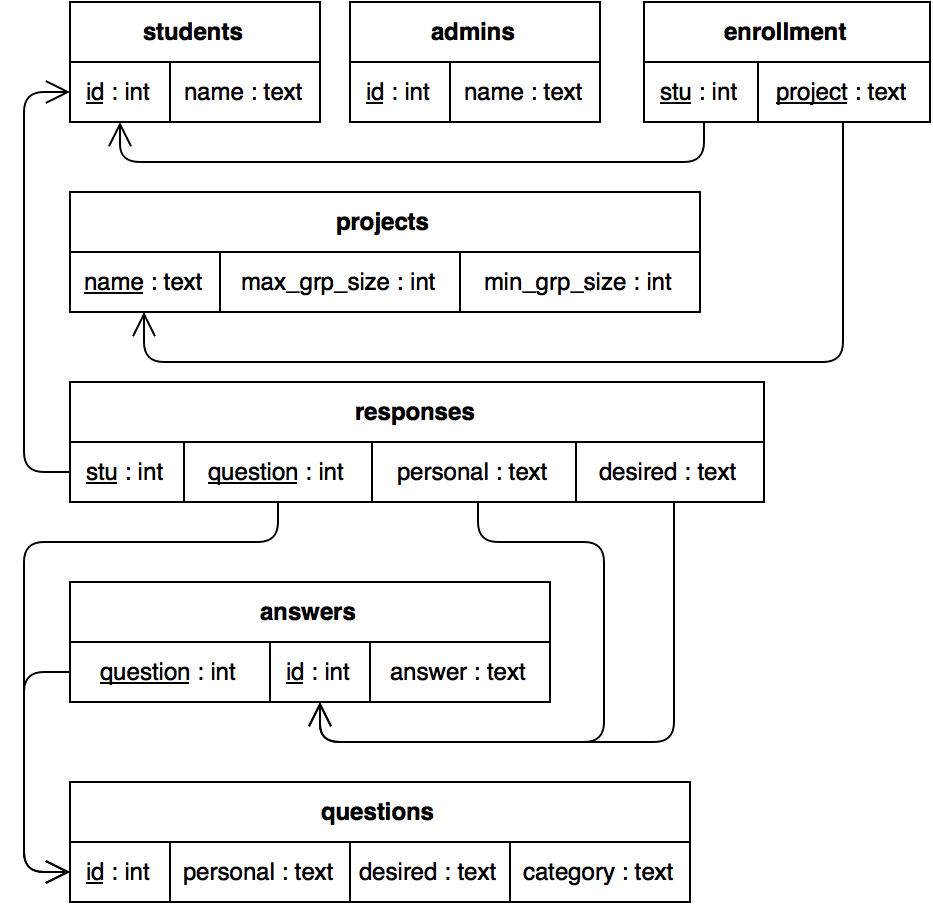
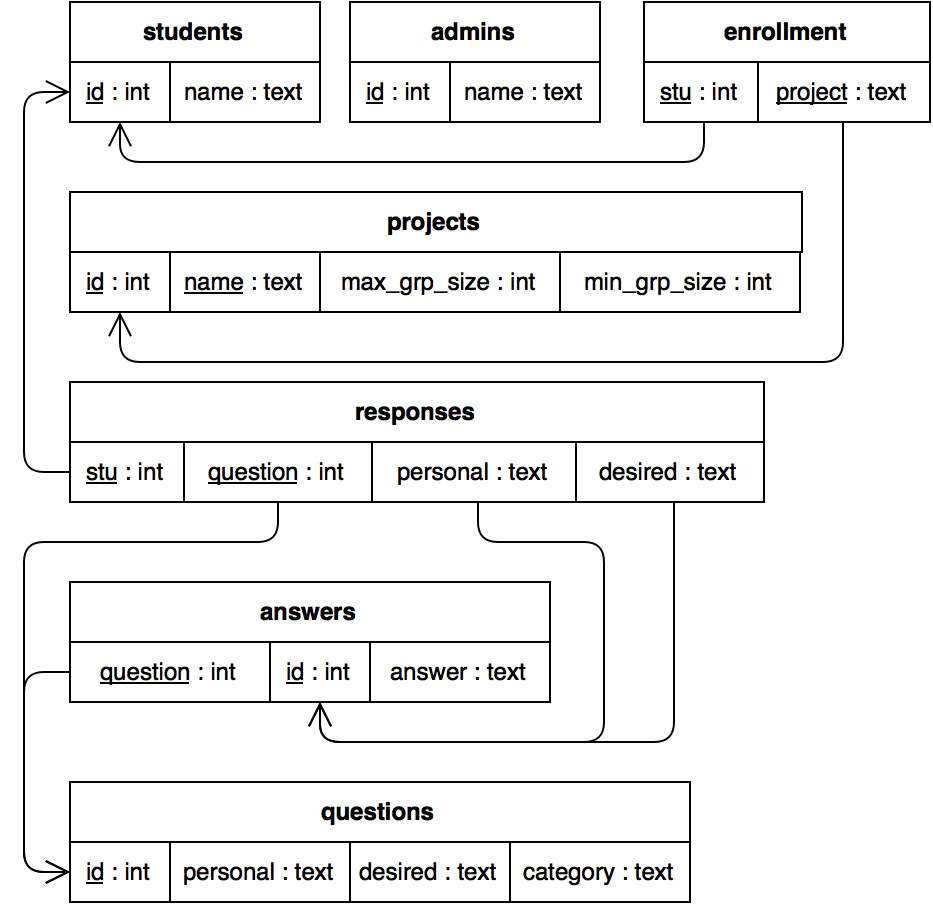
updated db diagram, added db reasoning

Changed region(s): [[0.0932, 0.2166, 0.8392, 0.4022]]

diff --git a/docs/system-design-document.tex b/docs/system-design-document.tex
@@ -94,13 +94,6 @@
 \newcommand{\dtref}[1]{\textbf{DT-\ref{dt:#1}}}
 %% END TABLE COMMANDS
 
-%% STORAGE OBJECT COMMANDS
-\newcounter{storeobjnum}
-\renewcommand{\thedbtablenum}{\twodigits{storeobjnum}}
-\newcommand{\dtlabel}[1]{\refstepcounter{storeobjnum}\label{so:#1}}
-\newcommand{\dtref}[1]{\textbf{SO-\ref{so:#1}}}
-%% END STORAGE OBJECT COMMANDS
-
 % TABLE STYLING
 \everyrow{\hline}
 \tabulinesep=0.5em
@@ -237,15 +230,17 @@ To store the data for our system, a relational database is being used. Our relat
 	\caption{Tables in Database} \tablelabel{db-table}
 	\begin{tabu} to \textwidth {l >{\it}l X}
 		\tableheader{}ID & Name & Description \\
-		\dtlabel{students}\dtref{students}     & students   & Stores the Student entity object. \\
-		\dtlabel{admins}\dtref{admins}         & admins     & Stores the Admin entity object. \\
-		\dtlabel{projects}\dtref{projects}     & projects   & Stores the Project entity object. \\
-		\dtlabel{enrollment}\dtref{enrollment} & enrollment & Stores the association between the Student and Project entity objects,
-		                                                      which is refers to a student's enrollment into a project. \\
-		\dtlabel{questions}\dtref{questions}   & questions  & Stores the Question entity object. \\
-		\dtlabel{answers}\dtref{answers}       & answers    & Stores the Answer entity object. \\
-		\dtlabel{responses}\dtref{responses}   & responses  & Stores the association between the Student and Question entity objects. 
-		                                                      which refers to what answer a student has selected for a question. \\
+		\dtlabel{students}\dtref{students}     & students   & Stores the \textit{Student} (\cdref{student}) entity object. \\
+		\dtlabel{admins}\dtref{admins}         & admins     & Stores the \textit{Admin} (\cdref{admin}) entity object. \\
+		\dtlabel{projects}\dtref{projects}     & projects   & Stores the \textit{Project} (\cdref{project}) entity object. \\
+		\dtlabel{enrollment}\dtref{enrollment} & enrollment & Stores the association between the \textit{Student} (\cdref{student}) 
+		                                                      and \textit{Project} (\cdref{project}) entity objects, which is refers 
+		                                                      to a student's enrollment into a project. \\
+		\dtlabel{questions}\dtref{questions}   & questions  & Stores the \textit{Question} (\cdref{question}) entity object. \\
+		\dtlabel{answers}\dtref{answers}       & answers    & Stores the \textit{Answer} (\cdref{answer}) entity object. \\
+		\dtlabel{responses}\dtref{responses}   & responses  & Stores the association between the \textit{Student} (\cdref{student}) 
+		                                                      and \textit{Question} (\cdref{question}) entity objects, which refers to      
+		                                                      what answer a student has selected for a question. \\
 	\end{tabu}
 \end{table}
 
@@ -253,8 +248,8 @@ To store the data for our system, a relational database is being used. Our relat
 	\caption{Students Table (\dtref{students})} \tablelabel{students-table}
 	\begin{tabu} to \textwidth {l l l X}
 		\tableheader{}Column & Type & Constraint & Description \\
-		id   & Integer & Primary Key & The unique ID given to the student. \\
-		name & Text    &             & The name of the student. \\
+		id   & Integer & Primary Key & The unique ID given to the Student. \\
+		name & Text    &             & The name of the Student. \\
 	\end{tabu}
 \end{table}
 
@@ -262,8 +257,8 @@ To store the data for our system, a relational database is being used. Our relat
 	\caption{Admins Table (\dtref{admins})} \tablelabel{admins-table}
 	\begin{tabu} to \textwidth {l l l X}
 		\tableheader{}Column & Type & Constraint & Description \\
-		id   & Integer & Primary Key & The unique ID given to the administrator. \\
-		name & Text    &             & The name of the administrator. \\
+		id   & Integer & Primary Key & The unique ID given to the Admin. \\
+		name & Text    &             & The name of the Admin. \\
 	\end{tabu}
 \end{table}
 
@@ -271,11 +266,11 @@ To store the data for our system, a relational database is being used. Our relat
 	\caption{Projects Table (\dtref{projects})} \tablelabel{projects-table}
 	\begin{tabu} to \textwidth {l l X X[3]}
 		\tableheader{}Column & Type & Constraint & Description \\
-		id             & Integer & Primary Key      & The unique ID given to a project. \\
+		id             & Integer & Primary Key      & The unique ID given to a Project. \\
 		name           & Text    & Unique,\newline 
-		                           Case Insensitive & The unique name given to a project. \\
-		max\_grp\_size & Integer &                  & The maximum group size of a project. \\
-		min\_grp\_size & Integer &                  & The minimum group size of a project. \\
+		                           Case Insensitive & The unique name given to a Project. \\
+		max\_grp\_size & Integer &                  & The maximum group size of a Project. \\
+		min\_grp\_size & Integer &                  & The minimum group size of a Project. \\
 	\end{tabu}
 \end{table}
 
@@ -294,10 +289,10 @@ To store the data for our system, a relational database is being used. Our relat
 	\caption{Questions Table (\dtref{questions})} \tablelabel{questions-table}
 	\begin{tabu} to \textwidth {l l l X}
 		\tableheader{}Column & Type & Constraint & Description \\
-		id       & Integer & Primary Key & The unique identifier given to a question. \\
-		personal & Text    &             & Asks the student to describe their self. \\
-		desired  & Text    &             & Asks the student to described their desired partner. \\
-		category & Text    &             & The qualification category the question belongs. \\
+		id       & Integer & Primary Key & The unique identifier given to a Question. \\
+		personal & Text    &             & Asks the Student to describe their self. \\
+		desired  & Text    &             & Asks the Student to described their desired partner. \\
+		category & Text    &             & The qualification category the Question belongs. \\
 	\end{tabu}
 \end{table}
 
@@ -306,10 +301,10 @@ To store the data for our system, a relational database is being used. Our relat
 	\begin{tabu} to \textwidth {l l X X[4]}
 		\tableheader{}Column & Type & Constraint & Description \\
 		question & Integer & Primary Key,\newline
-		                     Foreign Key          & The question the answer belongs to. References \textit{id} of the 
+		                     Foreign Key          & The Question the answer belongs to. References \textit{id} of the 
 		                                            \textit{questions} table. \\
-		id       & Integer & Primary Key          & The unique id given to the answer. \\
-		answer   & Text    &                      & The answer of a question. \\
+		id       & Integer & Primary Key          & The unique ID given to the Answer. \\
+		answer   & Text    &                      & The answer of a Question. \\
 	\end{tabu}
 \end{table}
 
@@ -318,28 +313,30 @@ To store the data for our system, a relational database is being used. Our relat
 	\begin{tabu} to \textwidth {l l X X[4]}
 		\tableheader{}Column & Type & Constraint & Description \\
 		stu      & Integer & Primary Key,\newline
-		                     Foreign Key          & Identifies the associated with the response. References \textit{id} of the 
+		                     Foreign Key          & Identifies the associated Student with the response. References \textit{id} of the 
 		                                            \textit{students} table. \\
 		question & Integer & Primary Key,\newline
-		                     Foreign Key          & Identifies which question the response belongs to. References \textit{question}
+		                     Foreign Key          & Identifies which Question the response belongs to. References \textit{question}
 		                                            of the \textit{answers} table. \\
-		personal & Integer & Foreign Key          & Identifies a student's selection for their personal attribute for the given
+		personal & Integer & Foreign Key          & Identifies a Student's selection for their personal attribute for the given
 		                                            given question. References \textit{id} of the \textit{answers} table. \\
-		desired  & Integer & Foreign Key          & Identifies a student's selection for their desired attribute for the given
+		desired  & Integer & Foreign Key          & Identifies a Student's selection for their desired attribute for the given
 		                                            given question. References \textit{id} of the \textit{answers} table. \\
 	\end{tabu}
 \end{table}
 
 \subsubsection{Reasoning}
 \subsubsection*{Students Table (\dtref{students})}
-%NEED ENTITY REFERENCE
-The Student entity object has an ID, which is a unique identifier for that Student. To make sure there can only be one Student to one ID, in the \textit{students} table, (\dtref{students}), the primary key is set to the \textit{id} column. This ensures that there will duplication of an ID value. As well, by making the \textit{id} column the primary key, it shortens look up time for entries when searching by the Student's ID. The \textit{name} column does not have a constraint because the name is irrelevant to identifying a Student when a unique ID value is available. As well, it allows for Student objects with the same name to be stored in the database.
+To ensure that ID of a \textit{Student} (\cdref{student}) is unique, the \textit{id} column is set as the primary key. This guarantees that no two IDs can be equal. As well, by having the \textit{id} column as the primary key, the speed of looking up a \textit{Student} by their ID is increased.
+
+There isn't a constraint put on the \textit{name} column to allow for \textit{Students} with the same name to be entered into the database.
 
 \subsubsection*{Administrator Table (\dtref{admins})}
-%NEED ENTITY REFERENCE
-The Admin entity object has an ID, which is a unique identifier for that Admin. To make sure there can only be one Admin to one ID, in the \textit{admins} table, (\dtref{admins}), the primary key is set to the \textit{id} column. This ensures that there will duplication of an ID value. As well, by making the \textit{id} column the primary key, it shortens look up time for entries when searching by the Admin's ID. The \textit{name} column does not have a constraint because the name is irrelevant to identifying a Admin when a unique ID value is available. As well, it allows for Student objects with the same name to be stored in the database.
+To ensure that ID of a \textit{Admin} (\cdref{admin}) is unique, the \textit{id} column is set as the primary key. This guarantees that no two IDs can be equal. As well, by having the \textit{id} column as the primary key, the speed of looking up a \textit{Admin} by their ID is increased.
 
-\subsubsection*{projects}
+There isn't a constraint put on the \textit{name} column to allow for \textit{Admins} with the same name to be entered into the database.
+
+\subsubsection*{Projects Table (\dtref{projects})}
 Oftentimes, admins will have to create multiple projects. To assure that no duplicate projects exist, we have enforced a unique project name as the Primary Key. This assures that the admin won't confuse themselves by having several identically named projects, thus maximizing readabilit and useability. Projects also have columns storing the max and min group sizes, which are importantly distinct from one another as to allow maximum flexibility with regards to number of students enrolled in a project (for when the PPID is run).
 
 \subsubsection*{enrollment}
@@ -503,12 +500,12 @@ In this section, we focus on the Operations that each of the services described 
 \caption{} 
 \begin{tabu} to \textwidth {l >{\it}l X}
 	\tableheader{}ID & Class Name & Description \\
-	\cdlabel{user}\cdref{user} & User & The user class contains only a single attribute - the unique ID. It provides the archetype for a generic user - the only defining feature being the unique identifier.\\
-	\cdlabel{student}\cdref{student} & Student & The Student class contains several attributes: a unique ID, inherited from the User class, a name, a collection of responses, and their join-status with regards to projects. Their methods revolve around the handling of their profiles, such as modifying response values. This class inherits from the User class. \\
+	\cdlabel{user}\cdref{user} & User & The user class contains two attributes - the unique ID, and a name. It provides the archetype for a generic user - the defining feature being the unique identifier.\\
+	\cdlabel{student}\cdref{student} & Student & The Student class contains several attributes: a unique ID, a name, both inherited from the User class, a collection of responses, and their join-status with regards to projects. Their methods revolve around the handling of their profiles, such as modifying response values. This class inherits from the User class. \\
 	\cdlabel{realstudent}\cdref{realstudent} & RealStudent & The RealStudent class inherits from the Student class and contains the actual information pulled from the StudentStorage object. It is relatively hidden from the rest of the system, though the data can be accessed through the ProxyStudent object.\\
 	\cdlabel{proxystudent}\cdref{proxystudent} & ProxyStudent & The ProxyStudent class also inherits from the Student class and provides a proxy or interface to the RealStudent object for the rest of the system. The idea here is to promote `lazy' loading with regards to the information stored in the RealStudent object.\\
 	\cdlabel{studentstorage}\cdref{studentstorage} & StudentStorage & The StudentStorage class is a class that provides a set of methods to pull/push data related to the Student user from/to the relational database. The RealStudent object is the only object that directly interacts with this object.\\
-	\cdlabel{admin}\cdref{admin} & Admin & The Admin class contains two attributes - the unique ID, inherited from the User class, and a name - and several methods revolving around the handling of Project objects. This class inherits from the User class. \\
+	\cdlabel{admin}\cdref{admin} & Admin & The Admin class contains two attributes - the unique ID, and a name, both inherited from the User class - and several methods revolving around the handling of Project objects. This class inherits from the User class. \\
 	\cdlabel{realadmin}\cdref{realadmin} & RealAdmin & The RealAdmin class inherits from the Admin class and contains the actual information pulled from the AdminStorage object. It is relatively hidden from the rest of the system, though the data contained can only be accessed through the ProxyAdmin object. \\
 	\cdlabel{proxyadmin}\cdref{proxyadmin} & ProxyAdmin & The ProxyAdmin class also inherits from the Admin class and provides a proxy or interface to the RealAdmin object for the rest of the system. The idea here is to promote `lazy' loading with regards to the information stored in the RealAdmin object.\\
 	\cdlabel{adminstorage}\cdref{adminstorage} & AdminStorage & The AdminStorage class is a class that provides a set of methods to pull/push data related to the Admin user from/to the relational database. The RealAdmin object is the only object that directly interacts with this object.\\
